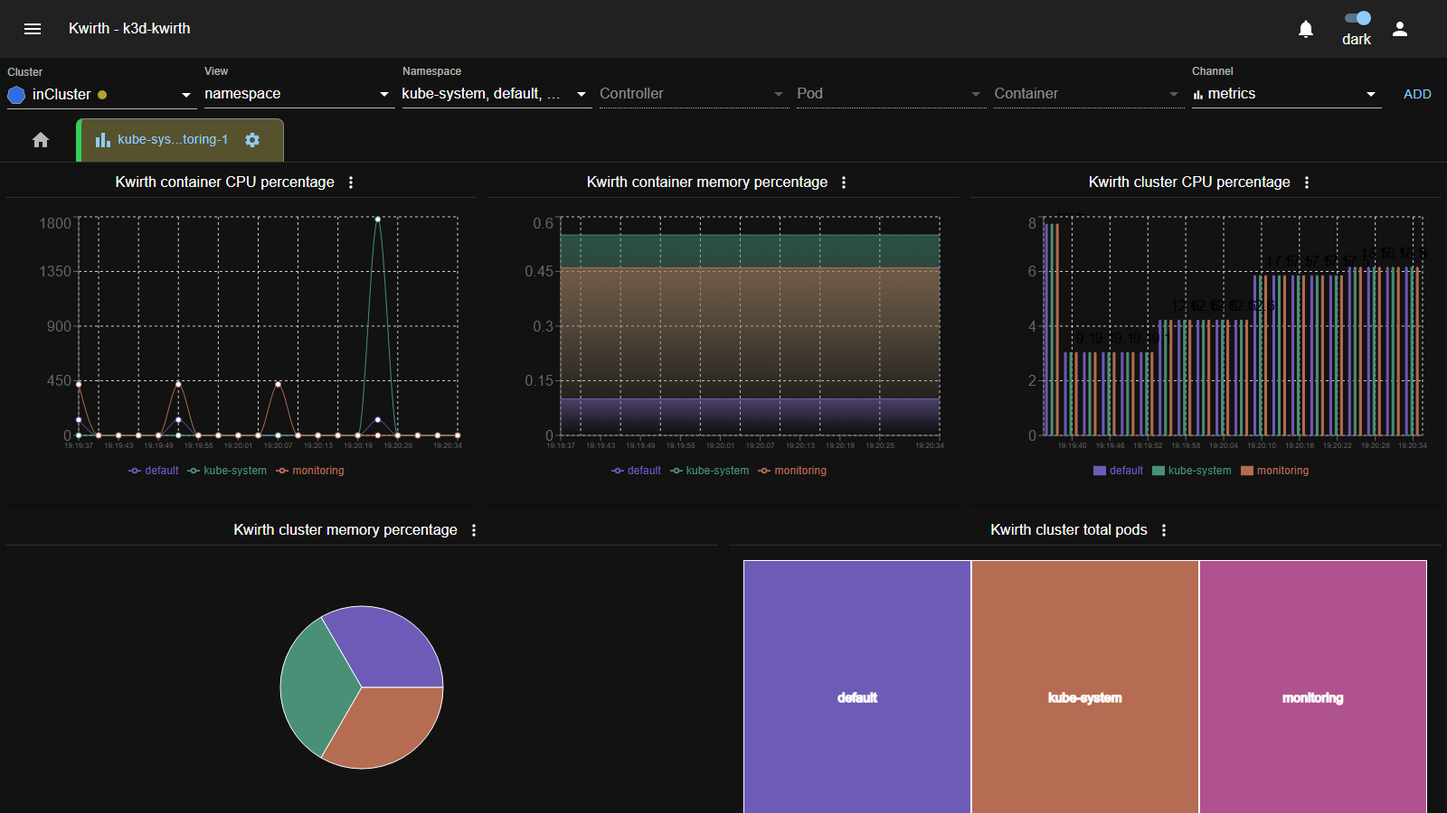
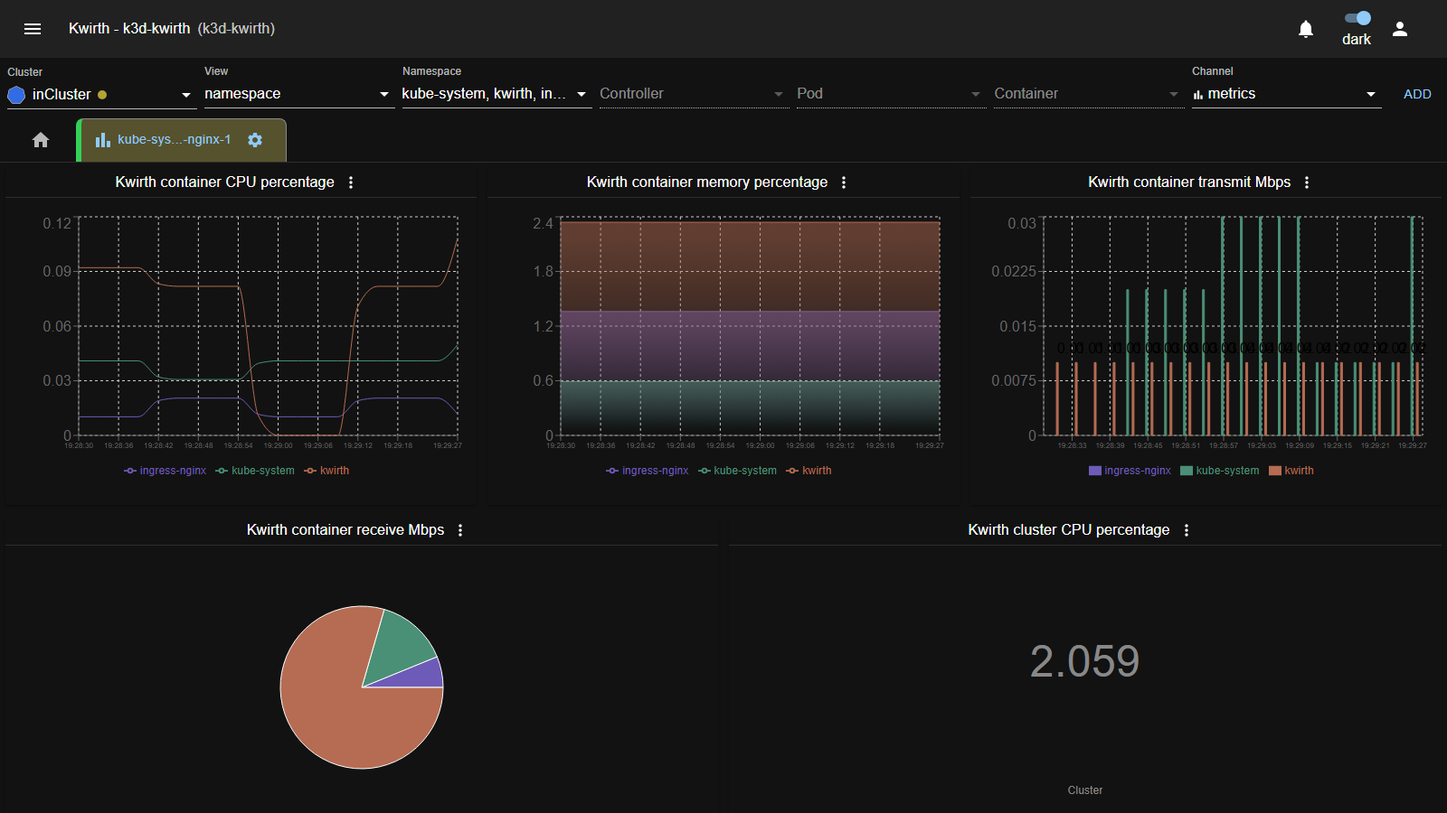
chore(metrics): close metrics-plugin — plugin/metrics@0.1.0 published
- @kwirthmagnify/kwirth-plugin-metrics@0.1.0 on public npm (README in the
  tarball) and in the public plugins manifest.
- The -readonly and -full image bundles take metrics from npm, like log and
  alert; it leaves back/kwirth-dev.json.
- Guide (0.6.31): the plugin page (package, the 'Cluster' series, install,
  scopes), the extension indexes, deployment (Helm modes, image variants, the
  maintained manifest, a docker run that keeps its data) and installation
  without channelMetrics. Dashboard capture regenerated.
- plans/completed/metrics-plugin/PLAN.md, closed, with its backlog; core QA
  metrics row, and the 21 unrelated e2e reds written down as pending.

diff --git a/docs/qa/test-metrics-history.md b/docs/qa/test-metrics-history.md
@@ -35,8 +35,19 @@
   que el propio test construye en un directorio temporal no está completo cuando se instala. Tercer caso
   de la misma familia que `help-popup` y `webhookManager`, y el primero que señala a una carrera con el
   sistema de ficheros en vez de a estado compartido entre tests.
-- **La suite completa tarda ~15 minutos**, y Playwright no vuelca nada hasta el final, así que no se puede
-  seguir el avance. Demasiado para usarla dentro del ciclo de trabajo: hoy se acaba corriendo por grupos.
+- **21 rojos DETERMINISTAS en la corrida completa del 2026-10-11** (111 ✅ · 21 ✗ · 3 ⏭ · 33 sin
+  ejecutar, 51 min). Fallan también lanzados en solitario, así que no es contaminación. Ninguno toca
+  metrics ni Magnify. Dos familias: **(a)** UI que ha cambiado debajo del test — `kwirth-portability` busca
+  un menú *Kwirth portability* que ya no existe en `front/src/menus`; `kwirth-log-settings`,
+  `settings-installed-lists`, `previous-log-sender`, `package-registries`, `marketplace-secrets`,
+  `help-popup`, `sender-help` no encuentran el control que esperan en los diálogos de settings y gestores
+  —; **(b)** extensiones que este dev no tiene instaladas: `config-bundle` (censor), `dce-api`,
+  `dce-manager`, `dce-nettools`, `dce-xyflow`, `nettools-channel`, `idp-manager`, `webhooks`,
+  `webhooks-manager` (jira), `broken-extension` (provider-debug). Para la (b) toca `test.skip()` con el
+  motivo cuando falte la extensión, no un `if`. Sin arreglar.
+- **La suite completa tarda ~15 minutos** (51 el 2026-10-11, con los timeouts de los rojos), y Playwright no
+  vuelca nada hasta el final, así que no se puede seguir el avance. Demasiado para usarla dentro del ciclo de
+  trabajo: hoy se acaba corriendo por grupos.
 - ~~**Ningún spec regenera capturas sin querer.**~~ **HECHO 2026-09-07:** `capture-*.spec.ts` queda fuera de
   la corrida por defecto (`testIgnore`), como los privados. Escribían en `docs/_media/guide`, así que cada
   corrida completa modificaba imágenes de la guía sin que nadie lo pidiera; pasó dos veces en un mismo día
@@ -44,6 +55,7 @@
 
 | Fecha | Cierre | Harness | Cobertura (líneas / ramas / funcs) | e2e | Notas |
 |---|---|---|---|---|---|
+| 2026-10-11 | El canal `metrics` sale del core a un plugin ([`metrics-plugin`](../../plans/completed/metrics-plugin/PLAN.md), `plugin/metrics@0.1.0`) | **707** ✅ (=) (703 pass · 4 skip · 0 fail) · chart **46** ✅ · manifiestos **26** ✅ | **81.23 % / 85.10 % / 80.18 %** (=) | 48 specs · 204 casos (=) — corrida completa: **111 ✅ · 21 ✗ · 3 ⏭ · 33 sin ejecutar**; `resource-selector-views` 10/10 | **El core pierde un canal y no gana nada a cambio, que es la idea.** Se van `back/src/channels/metrics` y `front/src/channels/metrics` (≈2000 líneas); se queda el **provider** `metrics`, del que también viven Magnify, alert, agora y spectrum. La cobertura no se mueve porque el canal nunca tuvo tests en el core: los tiene ahora en el plugin (21 de harness, 10 de e2e, en su propio histórico). Magnify deja de importar los tipos del canal y lo embebe por `prepareExternalChannel`, como ya hacía con log y trivy. `CHANNEL_METRICS` se retira de chart (`0.3.1`), manifiestos, `kwirth-external` y values: sus tests se ajustan y siguen en verde. ⚠ **La corrida e2e completa tiene 21 rojos, ninguno de este cierre** — deterministas, de UI cambiada bajo los tests o de extensiones que el dev no tiene; detalle en *Pendiente* arriba. `resource-selector-views` usa metrics para comprobar el filtro por vista y sigue en verde con el canal como plugin; se corrigieron sus comentarios, que decían que metrics era del core. |
 | 2026-10-10 | Los dos diálogos de AI config caben sin scroller, y el botón que aplica el formulario se ve (`common-ai` **0.5.69**) | **707** ✅ (703 pass · 4 skip · 0 fail) · `common-ai` **49** ✅ | **81.23 % / 85.10 % / 80.18 %** | **48** specs ✅ (+1) · 204 casos (+4) — `ai-config-dialog-layout.spec.ts` | **Se reportó como «no se persiste»: un límite de 3 llamadas/día subido a 30 volvía a salir en 3.** 🔴 **El comportamiento era correcto y el diagnóstico inicial, mirar la persistencia, era el sitio equivocado.** El `OK` del diálogo devuelve **la lista**, y lo que se teclea en el formulario solo llega a esa lista por el botón `Add`/`Update`. El defecto real era que **ese botón caía por debajo del pliegue**: el diálogo estaba clavado a `78vh` mientras el formulario crecía, así que el usuario rellenaba, daba a `OK` y el cambio nunca había entrado. 🔴 **La lección que deja la fila: un formulario cuyo control de commit no se ve es indistinguible de un formulario que no guarda.** La altura aquí no es cosmética, es lo que decide si se puede confirmar la edición. **Lo que se hizo no fue apretar, fue reorganizar.** Apretar se hizo (los tres párrafos de prosa del editor de límites pasan a un `caption`, `size='small'`, la etiqueta de 190→150 px), pero no bastaba: **4 unidades × 2 ventanas es el bloque más alto del formulario**, y apilado debajo de las credenciales no cabía en 720 px ni quitándole todo. El formulario pasa a **dos columnas** —credenciales a la izquierda, presupuesto a la derecha—, el diálogo de `800/900 px` a `90vw / 1200 px` y la lista se fija a `220 px`. Así el bloque de límites **compite** con las credenciales en vez de encadenarse a ellas. **Medido, no mirado a ojo**: a 1280×720 el `scrollHeight - clientHeight` del cuerpo es **0** en todos los casos (3 providers y 11 LLM, con y sin selección), y la columna del formulario se queda en ~410 px contra 538 disponibles. ⚠ **Los 538 los marca la LISTA, no el formulario**: tiene su propio `maxHeight: 70vh` y scroll interno, que es lo correcto y ya estaba — lo que se pidió quitar era el scroller que escondía el botón. 🔴 **Mi primera corrida de medidas era vacía justo en el peor caso y por poco la doy por buena**: los 11 LLM del entorno toman prestada la key de su provider, y en ese caso el editor de límites **no se pinta** —solo un aviso de dos líneas—, así que las 11 medidas idénticas no probaban nada sobre el bloque que causó el problema. El spec ahora **desmarca «Use provider API Key»** y vuelve a medir con el editor completo desplegado (sigue siendo no destructivo: se cancela). ⚠ **Un `retry #1` en `pinocchio-ai-provider-roundtrip` en la primera corrida tras reiniciar el front**; no reproducible en dos corridas posteriores de la misma combinación con `--retries=0` (8/8 limpio las dos veces) — webpack aún compilando, no el cambio. ⚠ **Tres publicaciones para un solo slice** (`0.5.67` apretando, `0.5.68` un `pb` suelto, `0.5.69` la reorganización): haber echado las cuentas de altura **antes** de publicar la primera habría ahorrado dos. El +12 de harness sobre la fila anterior es de otra sesión; este slice no toca el back |
 | 2026-10-09 | Un tercer tipo de despliegue: Kwirth en un pod **sin un solo permiso de Kubernetes** (`CONTAINER`, `kwirth-zero.yaml`, chart `mode: zero`) | **695** ✅ (+5) · manifiestos **26** ✅ (+18) · chart **46** ✅ (+7) | sin medir (WIP ajeno en el árbol) | manifiestos **63** ✅ (+23, **los tres**) · chart **77** ✅ (+17, **los tres modos** instalados de verdad en k3d) | **Lo pedido era un despliegue tradicional, sin SA ni roles ni nada, como el de ECS o Docker.** 🔴 **Mi primer diagnóstico fue erróneo y el usuario tenía razón**: dije que hacía falta tocar el core porque dentro de un pod `resolveEnvironmentCapabilities` fija `kubernetes = true` sin preguntar. Lo que no miré es que **`FORCE` existe precisamente para eso** y está documentado en el README de ECS como *override the environment detection*. Con `FORCE=ecs` salía andando sin una línea de código. ⚠ **Pero usar `ecs` en un pod es una mentira visible**: el comentario del propio enum dice que `executionEnvironment` se publica porque *"es lo primero que uno quiere saber al diagnosticar el despliegue de otro"*, y poner `ecs` ahí rompe justo eso. Así que se añadió **`CONTAINER` como valor real**, no como alias. 🔴 **Y el nombre genérico no es cosmético: nombra algo que ya existía.** ECS, Cloud Run y ACI **ya compartían el mismo `case`** en `resolveStore` y ya estaban juntos en la lista de `serverless` — son **un** perfil ("contenedor con volumen montado, store cifrado en `KWIRTH_STORE`, clúster solo si hay kubeconfig") con tres etiquetas, y lo único que los distingue es **cómo se detectan**. `CONTAINER` es el cuarto miembro, y el único que hay que declarar a mano porque no hay señal que detectar: el kubelet inyecta `KUBERNETES_SERVICE_HOST` en todo pod y eso gana. Radio del cambio: **ni el front ni un solo plugin** miran ese enum, solo tres ficheros del back. Efecto lateral bueno: `FORCE=ecs` sondeaba el endpoint de metadatos de ECS en cada arranque, fallaba y se disculpaba en el log; `CONTAINER` va directo al uuid generado. 🔴 **El matiz que salió de revisar `deploy/ecs` y que corrige el nombre**: `container` **no significa "sin clúster"**, significa "plataforma que Kwirth no reconoce". La `task-definition-ec2.json` **monta un kubeconfig** y sí ve su clúster — lo manda `probes.kubeconfig`, nunca el nombre del entorno. Está fijado en un test y dicho en las tres cabeceras. **El manifiesto son 5 objetos** (4 sin el bloque de SQL): Namespace, el Secret de la contraseña de la base, PVC, Deployment y Service. **Ni un objeto RBAC**, y `automountServiceAccountToken: false`, que es la mitad que no es RBAC: sin eso "sin roles" deja igualmente una credencial dentro del contenedor. Probado arrancando: `executionEnvironment: 'container'`, `clusterType: none`, el store cifrado escrito en el PVC y **el directorio del token inexistente** dentro del pod. **En el chart es `mode: zero`**, y como los otros dos arrastra consigo lo que tiene que ir junto: sin RBAC, sin ServiceAccount, token apagado, `FORCE=container` y los dos canales de clúster en false. Se niega a renderizar tres combinaciones, incluida **pedir RBAC en el modo cuyo propósito es no tenerlo**. ⚠ **Dos bugs del chart que destapó el modo nuevo.** (1) `users.bootstrap` estaba atado al MODO cuando la condición real es el **STORE**: el core lee ese Secret solo si su store es el clúster, así que un `normal` con `persistence` activada llevaba tiempo renderizando un Secret de usuarios **que nadie lee**. (2) `rbac.create` y `serviceAccount.create` estaban fijados a `true` en vez de derivarse; ahora siguen al modo y un `true` explícito con `zero` se rechaza como la contradicción que es. **Los tests pasan a cubrir TODAS las opciones de despliegue**, que es lo que se pidió: los unitarios de manifiestos miran los **tres** ficheros (antes uno), y el e2e los prueba a cada uno desde el ángulo que le toca — que el permisivo **sí puede** hacer `exec`, `delete` y `patch`, que es su razón de ser y nadie lo comprobaba; que el de lectura no puede; y que en el `zero` el ServiceAccount `default` al que cae **no puede absolutamente nada**. El del chart instala los tres modos de verdad, y en `zero` comprueba lo único que no se puede leer del YAML: que **arranca** como contenedor en vez de caer al `localhost:8080` inventado del cliente. ⚠ **Dos veces me destrozó bash las template literals** al insertar código con heredocs, la segunda dejando el fichero del e2e roto; se arregló escribiendo el bloque con la herramienta de ficheros y empalmándolo con un script, sin shell de por medio. `@kwirthmagnify/kwirth-common` a **0.5.66** |
 | 2026-10-08 | Ninguna contraseña en claro, en ningún sitio — y el chart genera y enseña la del admin | **690** ✅ (+2 de login) · chart **38** ✅ (+5) | sin medir (WIP ajeno en el árbol) | manifiesto **40** ✅ · chart **60** ✅ (+6), los dos modos contra k3d con imagen propia | **Se quitó la rama de login que aceptaba una contraseña guardada en TEXTO PLANO.** Existía para migrar instalaciones anteriores al hasheo: comparaba `sha256(stored)` y re-hasheaba al pasar. 🔴 **Un camino que acepta una contraseña sin hashear es un camino que hace que guardarla sin hashear funcione**, así que fuera, y con él el `migrate` entero. ⚠ **Es ruptura deliberada y así está documentada**: quien tenga una se queda fuera y hay que borrar su Secret de usuarios. 🔴 **Lo que costó no fue quitarla, fue el dominó.** Lo guardado es `bcrypt(sha256(contraseña))` y no `bcrypt(contraseña)` —el navegador manda el sha256 y el texto claro no sale de ahí—, así que **todo lo que siembra un usuario** tuvo que alinearse: `createAdminUserIfMissing` del core, el blob a fuego de `kwirth.yaml` (y de paso su clave de Secret, que ahora es `YWRtaW4`, base64url como la escribe el core) y el chart. `UserApi` ya hasheaba. Y el aviso de «cambia tu contraseña» no podía seguir detectándose con `stored === 'password'`: ahora es un `bcrypt.compare(sha256('password'), stored)`, así que el admin sembrado por defecto sigue recibiendo su 201. **Se aceptan los tres prefijos** (`$2a$`, `$2b$`, `$2y$`) y no solo `$2b$`: `bcryptjs` los verifica igual y exigir uno rechazaba hashes de herramientas normales — el `htpasswd` de Helm emite `$2a$`. 🔴 **Y el e2e destapó un bug serio del core, anterior a todo esto.** `KubernetesSecrets.write` hacía `replaceNamespacedSecret` con un `metadata` de solo `name`, `namespace` y `resourceVersion`. Un replace es un PUT: sustituye el objeto entero, así que la primera vez que Kwirth escribía el Secret de usuarios **borraba** `helm.sh/resource-policy: keep` y las annotations de Helm — y el siguiente `helm upgrade` **se llevaba el Secret con todos los usuarios dentro**. Lo mismo en `KubernetesConfigMaps` para `kwirth.keys`. Ahora se conservan labels y annotations del objeto vivo. El bug ya estaba (cualquier alta de usuario desde la UI lo provocaba), pero generar la contraseña hizo que el primer login dejara de devolver 201 —que salía **antes** de migrar— y pasara a 200, que sí migra: pasó a saltar en **la primera instalación de todas**. El e2e lo cazó y ahora lo vigila. ⚠ **Tres rojos del camino fueron aserciones MÍAS desfasadas, ninguna del producto**: esperaba `$2b$` tras el upgrade cuando ya no hay migración y se queda el `$2a$` del chart; comparaba la contraseña impresa contra la guardada **por igualdad** cuando la guardada es un hash; y dos unitarios del chart afirmaban sobre el texto claro. Los tres verifican ahora con `bcrypt.compare` contra el `sha256`, que es lo que hace el core — y es más fuerte que mirar la forma del hash, porque comprobar solo el prefijo pasaría igual de contento con el hash de otra cosa. **Documentación**: la ruptura en `commontasks.md` y en la guía del admin (`04-security-and-permissions`, sección nueva sobre cómo se guardan las contraseñas), el modo readonly y la contraseña generada en `installation.md` y en el README del chart, y el plan de helm con sus streams. ⚠ Cobertura sin medir: el árbol tiene WIP de otra sesión y el número no sería el de lo commiteado |

diff --git a/docs/0.6.31/guide/admin/01-deployment.md b/docs/0.6.31/guide/admin/01-deployment.md
@@ -6,54 +6,73 @@ Kwirth is a **single component** — one container/process — that you can run 
 
 ## Kubernetes with Helm (recommended)
 
-1. Add the repo:
-   ```bash
-   helm repo add kwirth https://github.com/kwirthmagnify/kwirth/tree/master/deploy/helm
-   ```
-2. Install:
-   ```bash
-   helm install kwirth kwirth/kwirth -n kwirth --create-namespace
-   ```
-
-This installs kwirth in the `kwirth` namespace with defaults. Tune it with a `values.yaml`:
-
-```yaml
-kwirth:
-  config:
-    channelMetrics: "true"
-    channelMagnify: "true"
-    rootpath: /kwirth
-  image: kwirthmagnify/kwirth:0.6.31
+```bash
+helm repo add kwirth https://kwirthmagnify.dev/helm-charts
+helm repo update
+helm install kwirth kwirth/kwirth -n kwirth --create-namespace
 ```
+
+This installs kwirth in the `kwirth` namespace with defaults. **Read the notes Helm prints**: the chart generates the admin password on the first install and shows it there, the only place it is shown in the clear.
+
+### The mode: how much of the cluster kwirth may touch
+
+`kwirth.mode` is the option that matters most. It is a single value, and the RBAC, the service account, where the configuration lives and the container's security context change with it.
+
+| `kwirth.mode` | What the ClusterRole grants | What you give up |
+|---|---|---|
+| `normal` (default) | Every verb on the API groups kwirth uses | Nothing: everything works, including the actions that **change** the cluster (Magnify's restart, scale, cordon, drain, evict, apply and delete, and the `ops` and `fileman` plugins). |
+| `readonly` | One rule: `get`, `list`, `watch` on everything | The actions that change the cluster. They answer 403 with the buttons still in the UI, so don't install `ops` or `fileman`. Logs, metrics, events and the resource browser work the same. |
+| `zero` | No ClusterRole, no binding, no service account of its own, no projected token | Everything that reads the cluster it runs in. What remains: front end, users, extensions, autonomous channels, ingestion providers, database, and federation with other kwirth instances. |
 
 ```bash
-helm install kwirth kwirth/kwirth -n kwirth --create-namespace -f values.yaml
+# readonly: sees everything, changes nothing
+helm install kwirth kwirth/kwirth -n kwirth --create-namespace \
+  --set kwirth.mode=readonly --set kwirth.persistence.enabled=true
+
+# zero: no Kubernetes permissions at all
+helm install kwirth kwirth/kwirth -n kwirth --create-namespace \
+  --set kwirth.mode=zero --set kwirth.persistence.enabled=true
 ```
 
-Most useful Helm options:
+`readonly` and `zero` need **`kwirth.persistence.enabled=true`**: inside Kubernetes kwirth keeps its configuration in Secrets and ConfigMaps, neither mode may write them, so it goes on a volume. The chart refuses to render without it.
+
+> ⚠ `readonly` does not stop kwirth from reading Secrets: Kubernetes RBAC has no deny rules, so a role covering every resource kwirth watches can't leave them out.
+
+### The image: what comes inside
+
+The image is published in three variants of the same core. The only difference is which extensions are already inside when the container starts:
+
+| Image tag | Comes with |
+|---|---|
+| `kwirthmagnify/kwirth:<version>-core` | The core and the bundled guide. No channels. |
+| `kwirthmagnify/kwirth:<version>-readonly` | `-core` plus the `log`, `metrics` and `alert` plugins |
+| `kwirthmagnify/kwirth:<version>-full` | `-readonly` plus `magnify`. The plain `<version>` tag and `latest` are this one. |
+
+Anything missing can still be installed at runtime from the marketplace (see [Extending kwirth](08-extending-kwirth)); the variant only decides what is there at startup, which is what counts on an air-gapped cluster. Choose it with `--set kwirth.image.tag=<version>-readonly`. The natural pairs are `normal` + `-full`, `readonly` + `-readonly` and `zero` + `-core`; the project [README](https://github.com/kwirthmagnify/kwirth#choosing-a-combination) explains all nine combinations.
+
+### Other useful options
 
 | Option | Description | Default |
 |---|---|---|
-| `masterkey` | Key used to **sign the access keys** issued to clients. **Change this.** | `Kwirth4Ever` |
-| `rootpath` | Path kwirth is served under | `/kwirth` |
-| `image` | Full image reference | `kwirthmagnify/kwirth:latest` |
-| `resources` | Pod resources (K8s format) | `{ limits: {cpu:1, memory:2Gi}, requests: {cpu:0, memory:256Mi} }` |
-| `ingress.enabled` | Deploy an Ingress | `false` |
-| `ingress.controller` | Ingress controller (`nginx` / `agic`) | `nginx` |
-| `ingress.hostname` | Host in the Ingress | – |
-| `nginx.tls` / `nginx.secret` | Enable TLS / secret holding CRT+KEY | – |
+| `kwirth.config.masterkey` | Key that **signs the access keys** (and encrypts a filesystem store). Empty generates a random one on the first install and keeps it across upgrades. | generated |
+| `kwirth.config.rootpath` | Path kwirth is served under | `/kwirth` |
+| `kwirth.config.channelMagnify` | The only core channel; follows the mode when unset | on (off in `zero`) |
+| `kwirth.image.tag` | Image tag (and with it, the variant) | the chart's `appVersion` |
+| `kwirth.ingress.*` | Ingress (`nginx` / `agic`), hostname and TLS | disabled |
 
-> **Channels are plugins now.** Log, Ops, Trivy, Fileman and the rest are loaded as **plugins**, not Helm flags. Install them from the plugin management UI (see [Extending kwirth](08-extending-kwirth)).
+Every value is documented in the chart's [README](https://github.com/kwirthmagnify/kwirth/blob/master/deploy/kubernetes/helm/kwirth/README.md).
+
+> **Channels are plugins.** Log, Metrics, Alert, Ops, Trivy, Fileman and the rest are **plugins**, not Helm flags: install them from the plugin management UI (see [Extending kwirth](08-extending-kwirth)), or run an image that already carries them.
 
 ## Kubernetes with manifests
 
 For an express setup:
 
 ```bash
-kubectl apply -f https://raw.githubusercontent.com/kwirthmagnify/kwirth/master/test/kwirth.yaml
+kubectl apply -f https://raw.githubusercontent.com/kwirthmagnify/kwirth/master/deploy/kubernetes/manifests/kwirth.yaml
 ```
 
-Edit the YAML if you need to change defaults.
+It creates the `kwirth` namespace and the `kwirth-svc` Service on port 3883, and serves kwirth under `/kwirth`. The first login is `admin` / `password`, and kwirth asks you to change it before letting you in. The same folder has `kwirth-full-ro.yaml` (read-only) and `kwirth-zero.yaml` (no Kubernetes permissions), the equivalents of the Helm modes; read each file's header before applying it.
 
 ### The API groups kwirth needs
 
@@ -79,13 +98,18 @@ If you write your own `ClusterRole` instead of using the one in that manifest, g
 
 ## Docker
 
-Mount your kubeconfig so kwirth can reach the cluster:
+Mount your kubeconfig so kwirth can reach the cluster, and a volume for kwirth's own data:
 
 ```bash
-docker run -d -p 3883:3883 \
-  -v ~/.kube/config:/root/.kube/config \
-  --name kwirth kwirthmagnify/kwirth:latest
+docker run -d --name kwirth -p 3883:3883 \
+  -v ~/.kube/config:/root/.kube/config:ro \
+  -v ~/.kwirth:/data \
+  -e CONFIGMAPPATH=/data \
+  -e SECRETPATH=/data \
+  kwirthmagnify/kwirth:latest
 ```
+
+Without the `/data` volume, users, API keys, settings and installed extensions live inside the container and disappear with `docker rm`. Without a kubeconfig kwirth still starts, observing no cluster.
 
 ## External (no Docker)
 

diff --git a/plans/completed/metrics-plugin/PLAN.md b/plans/completed/metrics-plugin/PLAN.md
@@ -1,0 +1,69 @@
+# metrics-plugin — el canal `metrics` sale del core — PLAN
+
+> Estado: **CERRADO** (2026-10-11). Un único stream, M1, entregado con el QA validado por el usuario y el
+> plugin publicado en npm público y en el marketplace público: `@kwirthmagnify/kwirth-plugin-metrics@0.1.0`
+> (tag `plugin/metrics@0.1.0`). Sin PRD a propósito (D5): es una migración con precedentes (`ops`, `echo`,
+> `trivy`), no una capacidad nueva. Append-only.
+
+## Qué se ha hecho y por qué
+
+El canal `metrics` era, con `magnify`, uno de los dos canales que seguían compilados dentro del core. Sale a
+`plugins/metrics`, creado con `create-kwirth-plugin`, para que el core quede en lo que tiene que ser y la
+imagen pueda llevarlo o no según la variante (`-core`, `-readonly`, `-full`).
+
+Lo que **no** sale: el **provider `metrics`**, que lee los kubelets. Lo consumen también Magnify, alert, agora
+y spectrum; el plugin se suscribe a él igual que alert. Y el `metricsList` que el front entrega a los canales
+con `requirements.metrics`, que el core sigue sirviendo.
+
+## Decisiones
+
+| # | decisión |
+|---|---|
+| D1 | id `metrics`, paquete `@kwirthmagnify/kwirth-plugin-metrics`, OSS (npm público + manifest público), primera versión `0.1.0`. Mantiene su icono (`BarChart`) |
+| D2 | **Un solo stream**: core y plugin comparten el id `metrics`, así que no pueden convivir registrados, y el front no compila mientras Magnify importe tipos del canal. Plugin y retirada del core van juntos |
+| D3 | Los tipos que Magnify y ops usaban del canal **no** van a `kwirth-common-front`. El plugin implementa **`prepareExternalChannel`** (el hook genérico que ya usaban log y trivy) y entrega él su estado inicial; Magnify solo conserva una copia mínima de las formas (`MetricsExternalTypes.ts`) para aplicar su formulario |
+| D4 | El `process.exit(1)` cuando el nodo de un pod no aparece en la lectura **se va**: en el core tumbaba el back, dentro de un plugin tumbaría Kwirth entero. Se registra y se salta el asset |
+| D5 | Sin PRD; este PLAN basta |
+| D6 | En los `kwirth-bundled-*.json`, `metrics` apunta a la URL de npm, como log y alert, y no a un tgz local |
+| D7 | (aprobada durante el stream) **Bug heredado: las métricas `*_mbps` salían ×100** — el redondeo estaba copiado del de CPU %. Se arregla en el plugin |
+| D8 | (aprobada durante el stream) **`CHANNEL_METRICS` se retira de todos los despliegues**: chart (sube a `0.3.1`), manifiestos, `kwirth-external` (`-cm`), values de ejemplo y yamls de `test/`. Era una variable que ya no leía nadie |
+| D9 | (aprobada durante el stream, tras el QA) **Las métricas de cluster viajan en una serie propia, `Cluster`**. Las cuatro `kwirth_cluster_*` son un valor para todo el cluster y el canal las repetía dentro de cada asset: con *merge* salían N líneas idénticas con nombres de namespaces. Ahora salen una vez, sea cual sea la vista; el *merge* del front usa la unión de métricas de todos los assets |
+| D10 | (tras el QA) `admin` entra en la escala de scopes del canal (`'', snapshot, stream, cluster, admin`), como en el resto de plugins OSS: el core avisaba `Inexistent scope 'admin'` |
+
+## M1 — el canal `metrics` como plugin
+
+| # | tarea | estado |
+|---|---|---|
+| M1.1 | Scaffold con `node tools/create-kwirth-plugin.mjs --id metrics …`; common-back `^0.6.1` y `implements IChannel` | ✅ |
+| M1.2 | Back portado: suscripción al provider en `startChannel`, `cleanup()` que la suelta y para los intervalos, log por `backChannelObject`, `clusterInfo` tipado con una interfaz estructural mínima (patrón de spectrum) | ✅ |
+| M1.3 | Front portado; la ayuda del setup sale de `channelObject.clusterUrl` (el plugin no ve el `SessionContext` del core) y recharts se resuelve contra `window.__kwirth__.recharts` | ✅ |
+| M1.4 | Retirada del core: back (`index.ts`), front (`App.tsx`), `MetricDefinition` desde common-front, Magnify por `prepareExternalChannel` | ✅ |
+| M1.5 | D4, D7, D9 y D10 | ✅ |
+| M1.6 | D8: `CHANNEL_METRICS` fuera de los despliegues | ✅ |
+| M1.7 | README del paquete, copiado al tarball por el build | ✅ |
+| M1.8 | Harness propio (21: 14 back · 7 front, con las librerías de UI sustituidas por un stub) y e2e propio (3 specs · 10 casos: canal, Magnify, métricas de cluster con *merge*) | ✅ |
+| M1.9 | Guía: página del plugin, índices de extensiones, despliegue (modos, variantes de imagen) e instalación; captura del dashboard regenerada con `zz-capture.spec.ts` | ✅ |
+| M1.10 | Publicación `0.1.0`, entrada en el manifest público, bundles de imagen (D6), retirada de `kwirth-dev.json`, tag | ✅ |
+
+**Validación**: harness del plugin 21/21; e2e del plugin 10/10 contra el dev; harness del core 707 (703 ✅ ·
+4 ⏭ · 0 ✗); tests del chart 46/46 y de los manifiestos 26/26; typecheck de back y front del core limpio; QA
+manual del usuario. La regresión e2e del core dio **21 rojos ajenos a este stream** (ver backlog).
+
+## Lo que se encontró por el camino
+
+- **El README público mentía en varias cosas** (manifiesto `test/kwirth.yaml` que no es el que se mantiene,
+  un `docker run` que perdía los usuarios con `docker rm`, canales "que se activan al arrancar", logo en 404).
+  Se corrigió a petición del usuario, junto con las secciones nuevas de Helm, imágenes y la tabla de las nueve
+  combinaciones modo × imagen.
+- **La guía de despliegue tenía el repo de Helm mal** (un `tree/` de GitHub) y un `masterkey` por defecto
+  (`Kwirth4Ever`) que ya no existe. Corregido en la guía viva (0.6.31).
+
+## Backlog (fuera de M1)
+
+| tema | qué falta |
+|---|---|
+| ops | sigue construyendo a mano el estado del canal metrics con su copia de tipos (`plugins/ops/src/front/OpsExternalTypes.ts`); debería usar `prepareExternalChannel` como Magnify |
+| variables muertas | `kwirth-external` sigue ofreciendo `-cl`, `-ca`, `-ce`, `-co`, `-ct`, `-cp`, y los yamls de `test/` llevan `CHANNEL_LOG/ALERT/ECHO/OPS/TRIVY/FILEMAN`: no las lee nadie |
+| chart `0.3.1` | sin publicar en `kwirthmagnify.dev/helm-charts` (`publish-chart.mjs`) |
+| imágenes | las variantes `-core` y `-readonly` no están en Docker Hub, y `-full` se define como "+ magnify" mientras Magnify sigue en el core; el README ya las documenta como existentes |
+| e2e del core | 21 rojos deterministas ajenos a metrics (settings, portabilidad, gestores, extensiones que el dev no tiene instaladas); anotados en `docs/qa/test-metrics-history.md` |

diff --git a/docs/0.6.31/guide/extensions/plugins/metrics.md b/docs/0.6.31/guide/extensions/plugins/metrics.md
@@ -1,7 +1,7 @@
 # 📊 Metrics (plugin)
 
-> **Type:** Channel — **built-in** (ships with the kwirth core)<br>
-> **Package:** built-in (no install needed)<br>
+> **Type:** Plugin (channel)<br>
+> **Package:** `@kwirthmagnify/kwirth-plugin-metrics`<br>
 > **Icon:** 📊
 
 ## Overview
@@ -67,6 +67,8 @@ Besides the raw cAdvisor metrics, kwirth adds ready-made ones. They come in two 
 | `kwirth_cluster_memory_percentage` | % of cluster memory in use |
 | `kwirth_cluster_cpu_percentage` | % of cluster CPU in use |
 
+A cluster-scope metric is **one value for the whole cluster**, whatever objects you selected. That's why it is always drawn as a **single series named `Cluster`**, never one series per namespace or pod — with or without Aggregate, with or without Merge. Use it as a reference next to your objects: for example, your namespace's CPU and the cluster's CPU in the same tab.
+
 ## Drawing options — Aggregate vs Merge vs Stack
 
 These three decide how **multiple objects** are drawn for the **same** metric:
@@ -81,7 +83,7 @@ A single Metrics tab can mix **different chart types at once** — build a real 
 
 ![Metrics dashboard — five metrics, five chart types](../../../_media/guide/channel-metrics-dashboard.png)
 
-*One tab, five metrics, five chart types: **Line** (container CPU), **Area** (container memory), **Bar** (cluster CPU), **Pie** (cluster memory) and **Tree map** (cluster total pods). Change any chart's type from its ⋮ menu — see [Per-chart options](#per-chart-options-menu).*
+*One tab, five metrics, five chart types, over three namespaces merged: **Line** (container CPU), **Area** (container memory), **Bar** (network sent), **Pie** (network received, each namespace's share) and **Value** (cluster CPU, a single `Cluster` series). Change any chart's type from its ⋮ menu — see [Per-chart options](#per-chart-options-menu).*
 
 The individual chart types and drawing modes, one by one. All examples below chart `kwirth_container_cpu_percentage` across three namespaces (`default`, `kube-system`, `monitoring`).
 
@@ -128,9 +130,10 @@ So you can, for example, keep most metrics as lines but switch one to a **Pie** 
 
 ## Admin guide
 
-- **Built-in:** Metrics ships with the core — there is nothing to install in *Manage extensions*. It can be enabled/disabled at deploy time (Helm `channelMetrics`, External `--channelmetrics`).
+- **Installing it:** Metrics is a plugin. Install it from **☰ → Manage extensions → Plugins** like any other; uninstalling it removes the channel. It already comes inside the `-readonly` and `-full` images (and the plain image tag), so on those there is nothing to install — see the image variants in [Deployment](../../admin/01-deployment).
+- **What it needs from the core:** the data comes from the core's built-in **`metrics` provider**, which reads the kubelets. Without a Kubernetes API behind Kwirth (ECS, ACI, a container without a kubeconfig, Helm mode `zero`) there is nothing to draw, so don't install it there.
 - **Sampling rate:** the cluster-wide metrics read interval is set at deploy (`--metricsinterval`) and can be adjusted per cluster in **☰ → Cluster Settings** (see [Initial configuration](../../admin/02-initial-config)). The per-tab **Interval** above is how often the client refreshes its charts.
-- **Permissions:** users need streaming scopes (**`view`**, **`stream`**, or **`snapshot`** for one-off values) on the target objects — see [Security & permissions](../../admin/04-security-and-permissions).
+- **Permissions:** users need the **`stream`** scope on the target objects (or a higher one: **`cluster`** or **`admin`**) — see [Security & permissions](../../admin/04-security-and-permissions).
 
 ## Notes
 

diff --git a/docs/0.6.31/installation.md b/docs/0.6.31/installation.md
@@ -25,9 +25,8 @@ Installation can be tailored by changing some kwirth installation options:
 
 | Option             | Description | Type | Value  |Default value |
 | -                  | -           | -    |-       |-             |
-| channelMetrics     | Enables/Disables Metrics channel | string | true/false  | true  |
-| channelMagnify     | Enables/Disables Magnify channel | string | true/false  | true  |
-| mode               | `normal` lets kwirth change the cluster; `readonly` gives it `get`/`list`/`watch` and nothing else | string | normal / readonly | normal |
+| channelMagnify     | Enables/Disables Magnify, the only core channel (Metrics and the rest are plugins) | string | true/false  | true  |
+| mode               | `normal` lets kwirth change the cluster; `readonly` gives it `get`/`list`/`watch` and nothing else; `zero` grants nothing at all | string | normal / readonly / zero | normal |
 | rootpath           | It's the path where kwirth will be served | string | any URL Path | /kwirth  |
 | masterkey          | The key that signs the access keys sent to clients. **Empty generates one** and keeps it across upgrades | string | any string | *(generated)*  |
 | users.adminPassword | The first admin's password. **Empty generates one and prints it in the install notes** | string | any string | *(generated)* |
@@ -66,7 +65,6 @@ A sample 'values.yaml' file could be:
 ```yaml
 kwirth:
   config:
-    channelMetrics: "true"
     channelMagnify: "true"
     rootpath: /kwirth
   image: kwirthmagnify/kwirth:0.6.31
@@ -130,7 +128,7 @@ Use it when the cluster is not yours to read: a shared platform, a tenant namesp
 
 **What it still does.** It serves the front end and the marketplace, installs and runs extensions, keeps its configuration on the volume, uses the database for the extensions that accumulate data, and **federates**: point it at other kwirths that do have access and you see their logs, metrics and resources from here. Extensions that do not look at the infrastructure work exactly as anywhere else, which is what this deployment is for.
 
-**What it does not do** is everything that reads the cluster it lives in: logs, metrics, events and the resource browser. The two core channels are off in the file because there would be nothing behind them; do not install the plugins that read the cluster either.
+**What it does not do** is everything that reads the cluster it lives in: logs, metrics, events and the resource browser. The core channel (Magnify) is off in the file because there would be nothing behind it; do not install the plugins that read the cluster either.
 
 **It is told what it is**, with `FORCE=container`, and that line is not optional. The kubelet injects `KUBERNETES_SERVICE_HOST` into every pod, so taking the permissions away does not stop kwirth being identified as a Kubernetes workload — and inside a cluster the API is deliberately not optional, because a failure there is an error and not a degradation. Without it the pod comes up, finds no credentials, falls back to an invented cluster at `localhost:8080`, fails its first call and never starts.
 
@@ -402,7 +400,6 @@ Options:
   -f, --forward                   FORWARD feature (default: false)
   -i, --metricsinterval <number>  Seconds between metrics (default: 15)
   -cl, --channellog               Channel LOG (default: true)
-  -cm, --channelmetrics           Channel METRICS (default: true)
   -ca, --channelalert             Channel ALERT (default: true)
   -ce, --channelecho              Channel ECHO (default: true)
   -co, --channelops               Channel OPS (default: true)

diff --git a/plans/README.md b/plans/README.md
@@ -53,6 +53,7 @@ Terminados y en producción. Se consultan para saber **por qué** algo es como e
 
 | plan | entregado |
 |---|---|
+| [metrics-plugin](completed/metrics-plugin/PLAN.md) | el canal `metrics` sale del core a un plugin (`0.1.0`, npm público y marketplace). El provider `metrics` se queda en el core; Magnify lo embebe por `prepareExternalChannel`. De camino: los Mbps salían ×100, las métricas de cluster se repetían por asset (ahora una serie `Cluster`), y `CHANNEL_METRICS` se retiró de todos los despliegues (chart `0.3.1`) |
 | [nettools](completed/nettools/PLAN.md) · [PRD](completed/nettools/PRD.md) | la DCE `nettools` y su plugin (`0.2.0` los dos, npm público y marketplace): DNS y alcanzabilidad TCP compartidos por las extensiones y contestados **desde donde corre Kwirth**, más el icono, un gráfico de latencias con recharts y el **historial compartido** que hay detrás. Es el ejemplo trabajado del tipo `dce` **en los dos lados**: el del navegador solo lo ejercitaba el contador del `sample`. El ICMP se entregó y se retiró el mismo día — Kwirth son contenedores, y depender del `ping` de la imagen no compensaba. ⚠ Se cerró el 29, volvió a vivo el 30 por S4, y se cerró otra vez |
 | [dce](completed/dce/PLAN.md) · [PRD](completed/dce/PRD.md) | el tipo `dce`, *dynamic core extension*: objetos que el core instancia **una vez** y otras extensiones consumen por id — lo común de una suite que no pertenece al core. Back, front, gestor, packs y scaffold; el consumidor no se instala sin su DCE y la DCE no se va mientras alguien la use |
 | [previous-container-log](completed/previous-container-log/PLAN.md) | ver en el About el log del contenedor anterior cuando el core reinicia, con las líneas configurables desde los settings |

diff --git a/docs/0.6.31/guide/extensions/plugins/index.md b/docs/0.6.31/guide/extensions/plugins/index.md
@@ -1,6 +1,6 @@
 # Plugins (channels)
 
-**Channels** are the features users open in the [resource selector](../../user/04-selecting-resources) to observe and operate their clusters — Log, Metrics, Alert, Ops and so on. Most channels are **plugins** you install or remove; two (**Metrics** and **Magnify**) are **built-in** and ship with the kwirth core.
+**Channels** are the features users open in the [resource selector](../../user/04-selecting-resources) to observe and operate their clusters — Log, Metrics, Alert, Ops and so on. Every channel is a **plugin** you install or remove, except **Magnify**, which is **built-in** and ships with the kwirth core.
 
 ## Managing channel plugins
 
@@ -20,7 +20,7 @@ Each card shows the plugin's **name**, **version**, a short **description** and 
 | Channel | What it does | Packaging |
 |---|---|---|
 | 📄 [Log](log) | Real-time log streaming | plugin |
-| 📊 [Metrics](metrics) | Live CPU / memory / network / I/O metrics | built-in |
+| 📊 [Metrics](metrics) | Live CPU / memory / network / I/O metrics | plugin |
 | ⚠ [Alert](alert) | Alerts on matching log lines | plugin |
 | 🖥 [Ops](ops) | Operations: shell, restart, inspect | plugin |
 | 📁 [Fileman](fileman) | Browse container filesystems and volumes | plugin |

diff --git a/docs/0.6.31/guide/extensions/index.md b/docs/0.6.31/guide/extensions/index.md
@@ -6,10 +6,10 @@ This part is a **reference for every extension**, grouped by type. Each entry ex
 
 ## Plugins (channels)
 
-The channels users work with. Most are **plugins** you can install or remove; a couple (**Metrics**, **Magnify**) are **built-in** channels that ship with the kwirth core.
+The channels users work with. All are **plugins** you can install or remove, except **Magnify**, the **built-in** channel that ships with the kwirth core.
 
 - 📄 [Log](plugins/log) — real-time log streaming.
-- 📊 [Metrics](plugins/metrics) — live CPU/memory/network/IO metrics. *(built-in)*
+- 📊 [Metrics](plugins/metrics) — live CPU/memory/network/IO metrics.
 - ⚠ [Alert](plugins/alert) — alerts on matching log lines.
 - 🖥 [Ops](plugins/ops) — day-to-day operations (shell, restart, inspect).
 - 📁 [Fileman](plugins/fileman) — browse container filesystems and volumes.
